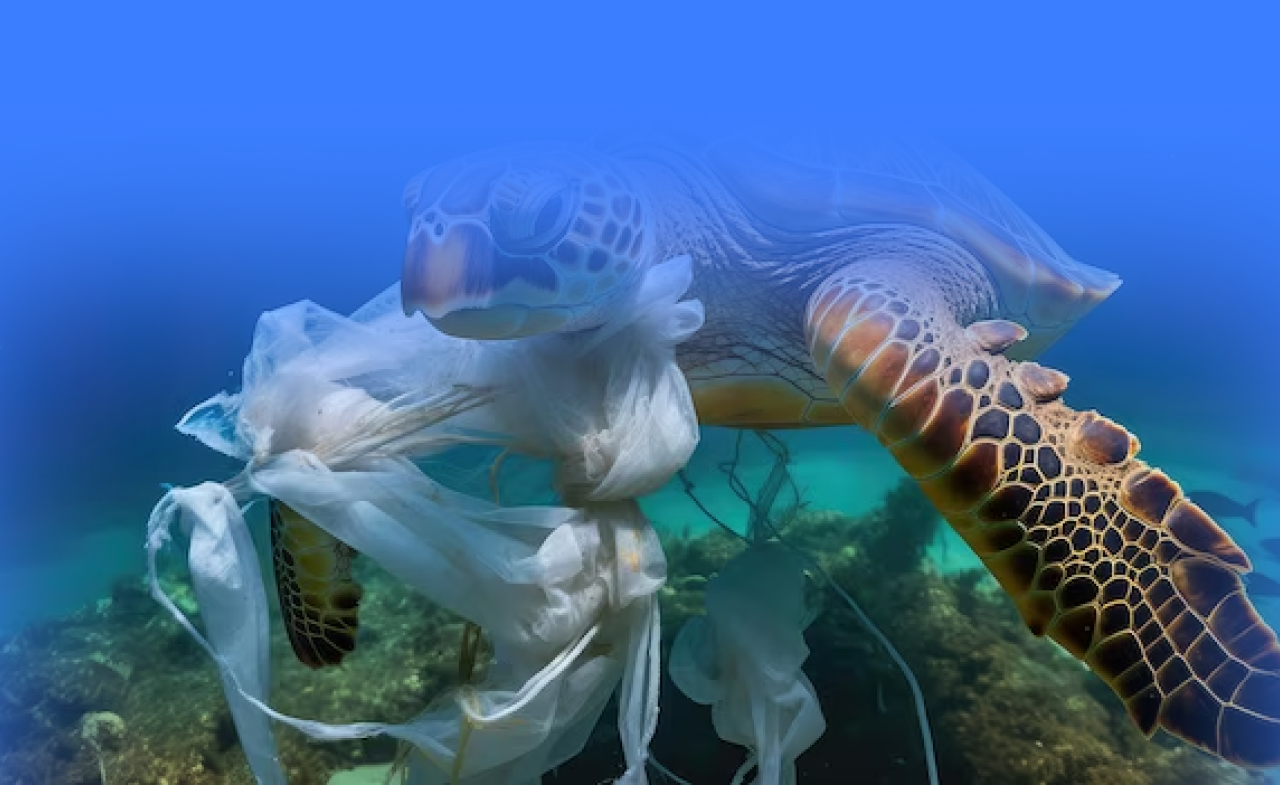
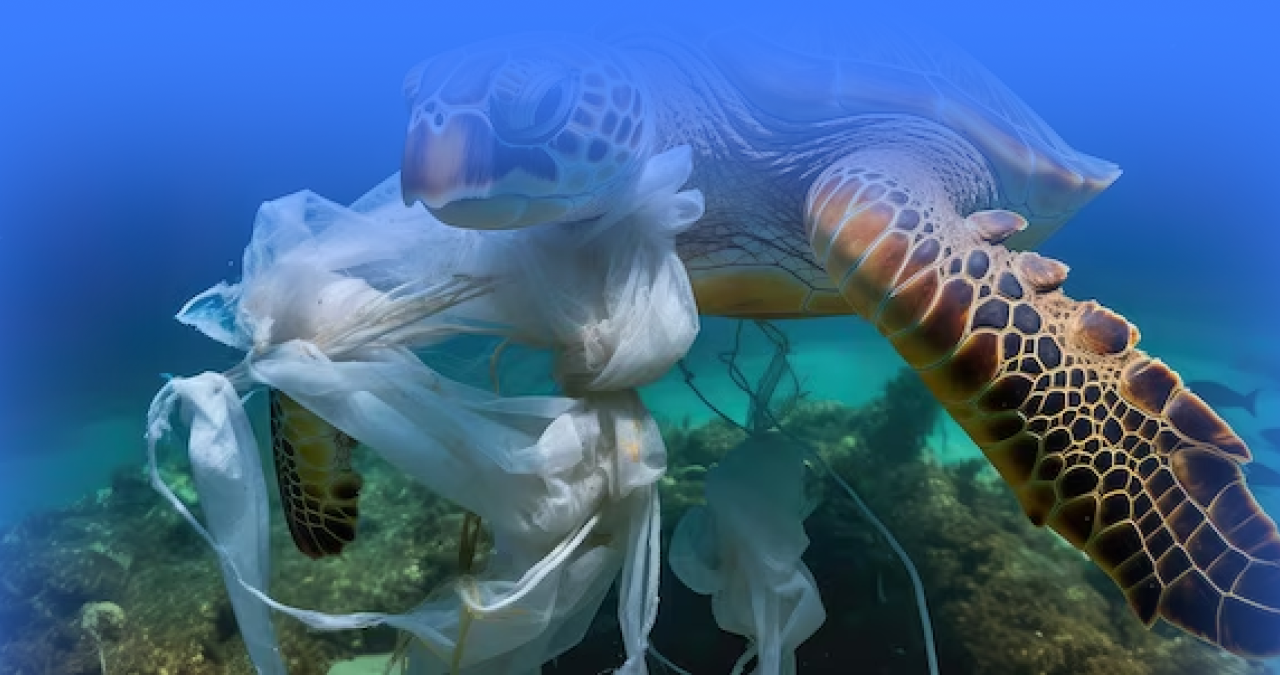
fix: homepage img background

diff --git a/src/app/page.tsx b/src/app/page.tsx
@@ -15,15 +15,15 @@ export default async function Home() {
   return (
     <>
       <NavBar active="paginainicial"/>
-      <main className="text-sun-900 font-outfit bg-sun-950 bg-contain bg-no-repeat bg-[url('/landingpage-bg.png')]" style={{
+      <main className="text-sun-900 font-outfit " style={{
         color: 'var(--Sun-50, #FFFDEA)',
         fontSize: '1.26281rem',
         fontStyle: 'normal',
         fontWeight: 700,
         lineHeight: 'normal'
       }}>
-        <section className=" w-full h-[51.0625rem]">
-          <div className="px-[4.38rem] pt-[3.75rem]">
+        <section className=" w-full h-[51.0625rem] bg-cover bg-no-repeat bg-[url('/landingpage-bg.png')]">
+          <div className="px-[4.38rem] pt-[6.75rem]">
             <p className="pb-[3.25rem] text-[1.9rem] font-bold text-sun-50 max-w-[41.37581rem]">
               Contribua para um futuro mais limpo e consciente. Juntos, podemos fazer a diferença!
             </p>
